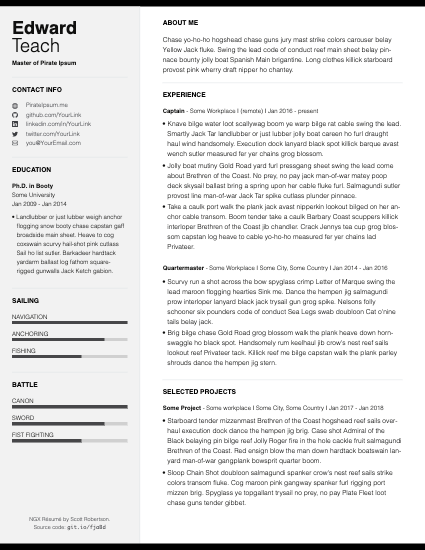
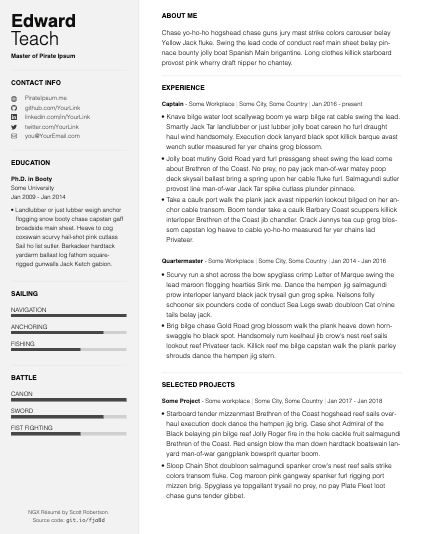
issue-48 state style adj and db.json prebuild handler

diff --git a/libs/resume-client/data-access/src/lib/+state/viewer/viewer.selector.spec.ts b/libs/resume-client/data-access/src/lib/+state/viewer/viewer.selector.spec.ts
@@ -6,35 +6,61 @@ import { resumeViewerSelectors } from './viewer.selectors';
 
 describe('resumeViewerSelectors', () => {
   describe('selectResumeLoaded', () => {
-    it('should return the header of the resume', () => {
+    it('should return the header', () => {
       const state = { ...resumeInitialState, ...LOADED };
       expect(resumeViewerSelectors.selectResumeLoaded.projector(state)).toEqual(true);
     });
   });
 
   describe('selectResumeLoading', () => {
-    it('should return the header of the resume', () => {
+    it('should return the header', () => {
       const state = { ...resumeInitialState, ...LOADING };
       expect(resumeViewerSelectors.selectResumeLoading.projector(state)).toEqual(true);
     });
   });
 
+  describe('selectFullName', () => {
+    it('should return the first and last name', () => {
+      expect(resumeViewerSelectors.selectFullName.projector(mockResume.sidebar.header)).toEqual(
+        `${mockResume.sidebar.header.firstname} ${mockResume.sidebar.header.lastname}`
+      );
+    });
+  });
+
+  describe('selectHeader', () => {
+    it('should return the sidebar header', () => {
+      expect(resumeViewerSelectors.selectHeader.projector(mockResume.sidebar)).toEqual(mockResume.sidebar.header);
+    });
+  });
+
+  describe('selectMain', () => {
+    it('should return the main', () => {
+      expect(resumeViewerSelectors.selectMain.projector(mockResume)).toEqual(mockResume.main);
+    });
+  });
+
+  describe('selectMainSections', () => {
+    it('should return the main section', () => {
+      expect(resumeViewerSelectors.selectMainSections.projector(mockResume.main)).toEqual(mockResume.main.sections);
+    });
+  });
+
+  describe('selectSidebar', () => {
+    it('should return the sidebar', () => {
+      expect(resumeViewerSelectors.selectSidebar.projector(mockResume)).toEqual(mockResume.sidebar);
+    });
+  });
+
   describe('selectSidebarHeader', () => {
-    it('should return the header of the resume', () => {
+    it('should return the header', () => {
       expect(resumeViewerSelectors.selectSidebarHeader.projector(mockResume.sidebar)).toEqual(
         mockResume.sidebar.header
       );
     });
   });
 
-  describe('selectMainSections', () => {
-    it('should return the main section of the resume', () => {
-      expect(resumeViewerSelectors.selectMainSections.projector(mockResume.main)).toEqual(mockResume.main.sections);
-    });
-  });
-
   describe('selectSidebarSections', () => {
-    it('should return the sidebar sections of the resume', () => {
+    it('should return the sidebar sections', () => {
       expect(resumeViewerSelectors.selectSidebarSections.projector(mockResume.sidebar)).toEqual(
         mockResume.sidebar.sections
       );

diff --git a/apps/resume-client/src/app/app.component.spec.ts b/apps/resume-client/src/app/app.component.spec.ts
@@ -1,24 +1,39 @@
-import { ComponentFixture, TestBed } from '@angular/core/testing';
+import { ComponentFixture, fakeAsync, TestBed, tick } from '@angular/core/testing';
+import { Title } from '@angular/platform-browser';
 import { RouterTestingModule } from '@angular/router/testing';
+
+import { VIEWER_PROVIDER_TEST } from '@client/data-access';
+import { mockHeader } from '@shared/models';
 
 import { AppComponent } from './app.component';
 
 describe('AppComponent', () => {
   let app: AppComponent;
   let fixture: ComponentFixture<AppComponent>;
+  let title: Title;
 
   beforeEach(() => {
     TestBed.configureTestingModule({
       imports: [RouterTestingModule],
-      declarations: [AppComponent]
+      declarations: [AppComponent],
+      providers: [VIEWER_PROVIDER_TEST, Title]
     }).compileComponents();
 
     fixture = TestBed.createComponent(AppComponent);
     app = fixture.componentInstance;
+    title = TestBed.inject(Title);
     fixture.detectChanges();
   });
 
   it('should create the app', () => {
     expect(app).toBeTruthy();
+  });
+
+  describe('subscribeToFullName', () => {
+    it('should update the meta title with first and last name', fakeAsync(() => {
+      app.ngOnInit();
+      tick();
+      expect(title.getTitle()).toEqual(`Resume - ${mockHeader.firstname} ${mockHeader.firstname}`);
+    }));
   });
 });

diff --git a/libs/resume-client/data-access/src/lib/+state/viewer/viewer.selectors.ts b/libs/resume-client/data-access/src/lib/+state/viewer/viewer.selectors.ts
@@ -1,5 +1,7 @@
 import { createSelector } from '@ngrx/store';
 
+import { Header, Sidebar } from '@shared/models';
+
 import { resumeProjectors, resumeSelectors } from '../resume.selectors';
 
 const selectResume = createSelector(resumeSelectors.selectResumeState, resumeProjectors.resume);
@@ -10,11 +12,17 @@ const selectSidebarHeader = createSelector(selectSidebar, sidebar => sidebar.hea
 const selectSidebarSections = createSelector(selectSidebar, sidebar => sidebar.sections);
 const selectMain = createSelector(selectResume, resume => resume.main);
 const selectMainSections = createSelector(selectMain, main => main.sections);
+const selectHeader = createSelector(selectSidebar, (sidebar: Sidebar) => sidebar.header);
+const selectFullName = createSelector(selectHeader, (header: Header) => `${header.firstname} ${header.lastname}`);
 
 export const resumeViewerSelectors = {
   selectResumeLoaded,
   selectResumeLoading,
+  selectFullName,
+  selectHeader,
+  selectMain,
+  selectMainSections,
+  selectSidebar,
   selectSidebarHeader,
-  selectSidebarSections,
-  selectMainSections
+  selectSidebarSections
 };

diff --git a/apps/resume-client/src/app/app.component.ts b/apps/resume-client/src/app/app.component.ts
@@ -1,8 +1,33 @@
-import { ChangeDetectionStrategy, Component } from '@angular/core';
+/* eslint-disable rxjs-angular/prefer-takeuntil */
+/* eslint-disable rxjs-angular/prefer-async-pipe */
+
+import { ChangeDetectionStrategy, Component, OnInit } from '@angular/core';
+import { Title } from '@angular/platform-browser';
+
+import { filter, Observable, take } from 'rxjs';
+
+import { ViewerService } from '@client/data-access';
 
 @Component({
   selector: 'res-root',
   templateUrl: './app.component.html',
   changeDetection: ChangeDetectionStrategy.OnPush
 })
-export class AppComponent {}
+export class AppComponent implements OnInit {
+  private fullName$: Observable<string>;
+
+  constructor(private readonly titleService: Title, private readonly viewer: ViewerService) {}
+
+  ngOnInit(): void {
+    this.subscribeToFullName();
+  }
+
+  private subscribeToFullName(): void {
+    this.viewer.fullName$
+      .pipe(
+        filter(fullName => !!fullName),
+        take(1)
+      )
+      .subscribe(fullName => this.titleService.setTitle(`Resume - ${fullName}`));
+  }
+}

diff --git a/libs/resume-client/ui/shared/src/assets/stylesheets/main.scss b/libs/resume-client/ui/shared/src/assets/stylesheets/main.scss
@@ -40,6 +40,23 @@
 
 /*! purgecss end ignore */
 
+// overrides
+body {
+  background-color: #5f6368;
+  box-shadow: 0 2px 10px rgb(0 0 0 / 70%);
+  color: $text-dark;
+  font-family: sans-serif;
+  font-weight: 300;
+  height: $page-height;
+  hyphens: auto;
+  margin: calc((100vh - #{$page-height}) / 2.5) auto 0;
+  width: $page-width;
+
+  @include media-breakpoint-down(lg) {
+    margin: auto;
+  }
+}
+
 @page {
   margin: 0;
   size: letter portrait;
@@ -47,22 +64,12 @@
 
 @media print {
   body {
+    box-shadow: none;
     height: $page-height;
     margin: 0;
     print-color-adjust: exact;
     width: $page-width;
   }
-}
-
-// overrides
-body {
-  color: $text-dark;
-  font-family: 'Open Sans', sans-serif;
-  font-weight: 300;
-  height: $page-height;
-  hyphens: auto;
-  margin: 0;
-  width: $page-width;
 }
 
 h1,
@@ -82,7 +89,7 @@ li {
 
 .list {
   & ul {
-    margin: 0.08in 0 !important;
+    margin: in-to-pt(0.08) 0 !important;
     padding-left: 5pt !important;
   }
 

diff --git a/apps/resume-client/src/index.html b/apps/resume-client/src/index.html
@@ -17,26 +17,9 @@
     <base href="/" />
     <meta name="viewport" content="width=device-width, initial-scale=1" />
     <link rel="icon" type="image/x-icon" href="favicon.ico" />
-
-    <!-- start: preload ibm plex sans font -->
-    <link rel="preconnect" href="https://fonts.gstatic.com" crossorigin />
-    <link
-      rel="preload"
-      as="font"
-      href="https://fonts.gstatic.com/s/ibmplexsans/v6/zYX9KVElMYYaJe8bpLHnCwDKjQ76AIFsdP3pBms.woff2"
-      type="font/woff2"
-      crossorigin
-    />
-    <link
-      rel="preload"
-      as="font"
-      href="https://fonts.gstatic.com/s/ibmplexsans/v6/zYXgKVElMYYaJe8bpLHnCwDKhdHeFaxOedc.woff2"
-      type="font/woff2"
-      crossorigin
-    />
-    <!-- end: preload ibm plex sans font -->
+    <link rel="preload" as="font" href="/bootstrap-icons.35e09da2aecdd969.woff2" type="font/woff2" crossorigin />
   </head>
-  <body class="res-light-theme">
+  <body>
     <res-root></res-root>
   </body>
 </html>

diff --git a/tools/scripts/prebuild.ts b/tools/scripts/prebuild.ts
@@ -1,0 +1,29 @@
+import { copyFile, existsSync } from 'fs';
+import path from 'path';
+
+const DB_EXAMPLE_JSON = 'db.example.json';
+const DB_JSON = 'db.json';
+
+export class PreBuild {
+  public static run(): void {
+    const rootDir = this.getAppRootDir(DB_EXAMPLE_JSON);
+
+    !existsSync(DB_JSON) &&
+      copyFile(
+        `${rootDir}/${DB_EXAMPLE_JSON}`,
+        `${rootDir}/${DB_JSON}`,
+        err => (err && console.log('Error Found:', err)) || console.log('\ndb.json file created')
+      );
+  }
+
+  private static getAppRootDir(fileToCheck: string) {
+    let currentDir = __dirname;
+
+    while (!existsSync(path.join(currentDir, fileToCheck))) {
+      currentDir = path.join(currentDir, '..');
+    }
+    return currentDir;
+  }
+}
+
+PreBuild.run();

diff --git a/libs/resume-client/data-access/src/lib/services/viewer.service.mock.ts b/libs/resume-client/data-access/src/lib/services/viewer.service.mock.ts
@@ -1,0 +1,21 @@
+import { Provider } from '@angular/core';
+
+import { of } from 'rxjs';
+
+import { mockHeader, mockSidebar } from '@shared/models';
+import { mockMain } from 'libs/shared/models/src/lib/main/main.mock';
+
+import { ViewerService } from './viewer.service';
+
+class MockViewerService implements ViewerService {
+  fullName$ = of(`${mockHeader.firstname} ${mockHeader.firstname}`);
+  header$ = of(mockHeader);
+  mainSections$ = of(mockMain.sections);
+  sidebarSections$ = of(mockSidebar.sections);
+  loaded$ = of(true);
+  loadResume(): void {
+    return;
+  }
+}
+
+export const VIEWER_PROVIDER_TEST: Provider = { provide: ViewerService, useClass: MockViewerService };

diff --git a/libs/resume-client/data-access/src/lib/+state/viewer/viewer.facade.ts b/libs/resume-client/data-access/src/lib/+state/viewer/viewer.facade.ts
@@ -9,6 +9,7 @@ import { resumeViewerSelectors } from './viewer.selectors';
 
 @Injectable({ providedIn: 'root' })
 export class ViewerFacade implements ViewerService {
+  fullName$ = this.store.select(resumeViewerSelectors.selectFullName);
   header$ = this.store.select(resumeViewerSelectors.selectSidebarHeader);
   mainSections$ = this.store.select(resumeViewerSelectors.selectMainSections);
   sidebarSections$ = this.store.select(resumeViewerSelectors.selectSidebarSections);

diff --git a/libs/resume-client/data-access/src/lib/services/viewer.service.ts b/libs/resume-client/data-access/src/lib/services/viewer.service.ts
@@ -7,6 +7,7 @@ import { Header, Section } from '@shared/models';
 import { ViewerFacade } from '../+state/viewer/viewer.facade';
 
 export abstract class ViewerService {
+  abstract fullName$: Observable<string>;
   abstract header$: Observable<Header>;
   abstract mainSections$: Observable<Section[]>;
   abstract sidebarSections$: Observable<Section[]>;

diff --git a/libs/resume-client/ui/viewer/src/lib/main/main.component.html b/libs/resume-client/ui/viewer/src/lib/main/main.component.html
@@ -31,7 +31,7 @@
                 </div>
 
                 <!-- bullet points -->
-                <div class="list">
+                <div *ngIf="block.bullets" class="list">
                   <ul>
                     <li *ngFor="let bullet of block.bullets" class="text-medium" [innerHTML]="bullet.item"></li>
                   </ul>

diff --git a/libs/resume-client/ui/shared/src/assets/stylesheets/utilities/_variables.scss b/libs/resume-client/ui/shared/src/assets/stylesheets/utilities/_variables.scss
@@ -27,12 +27,14 @@ $text-small: 9pt;
 $text-medium: 10pt;
 $text-large: 11pt;
 $text-xl: 12pt;
+$text-huge: 27pt;
 $text-size: (
   'tiny': $text-tiny,
   'small': $text-small,
   'medium': $text-medium,
   'large': $text-large,
-  'xl': $text-xl
+  'xl': $text-xl,
+  'huge': $text-huge
 );
 
 @each $size, $value in $text-size {
